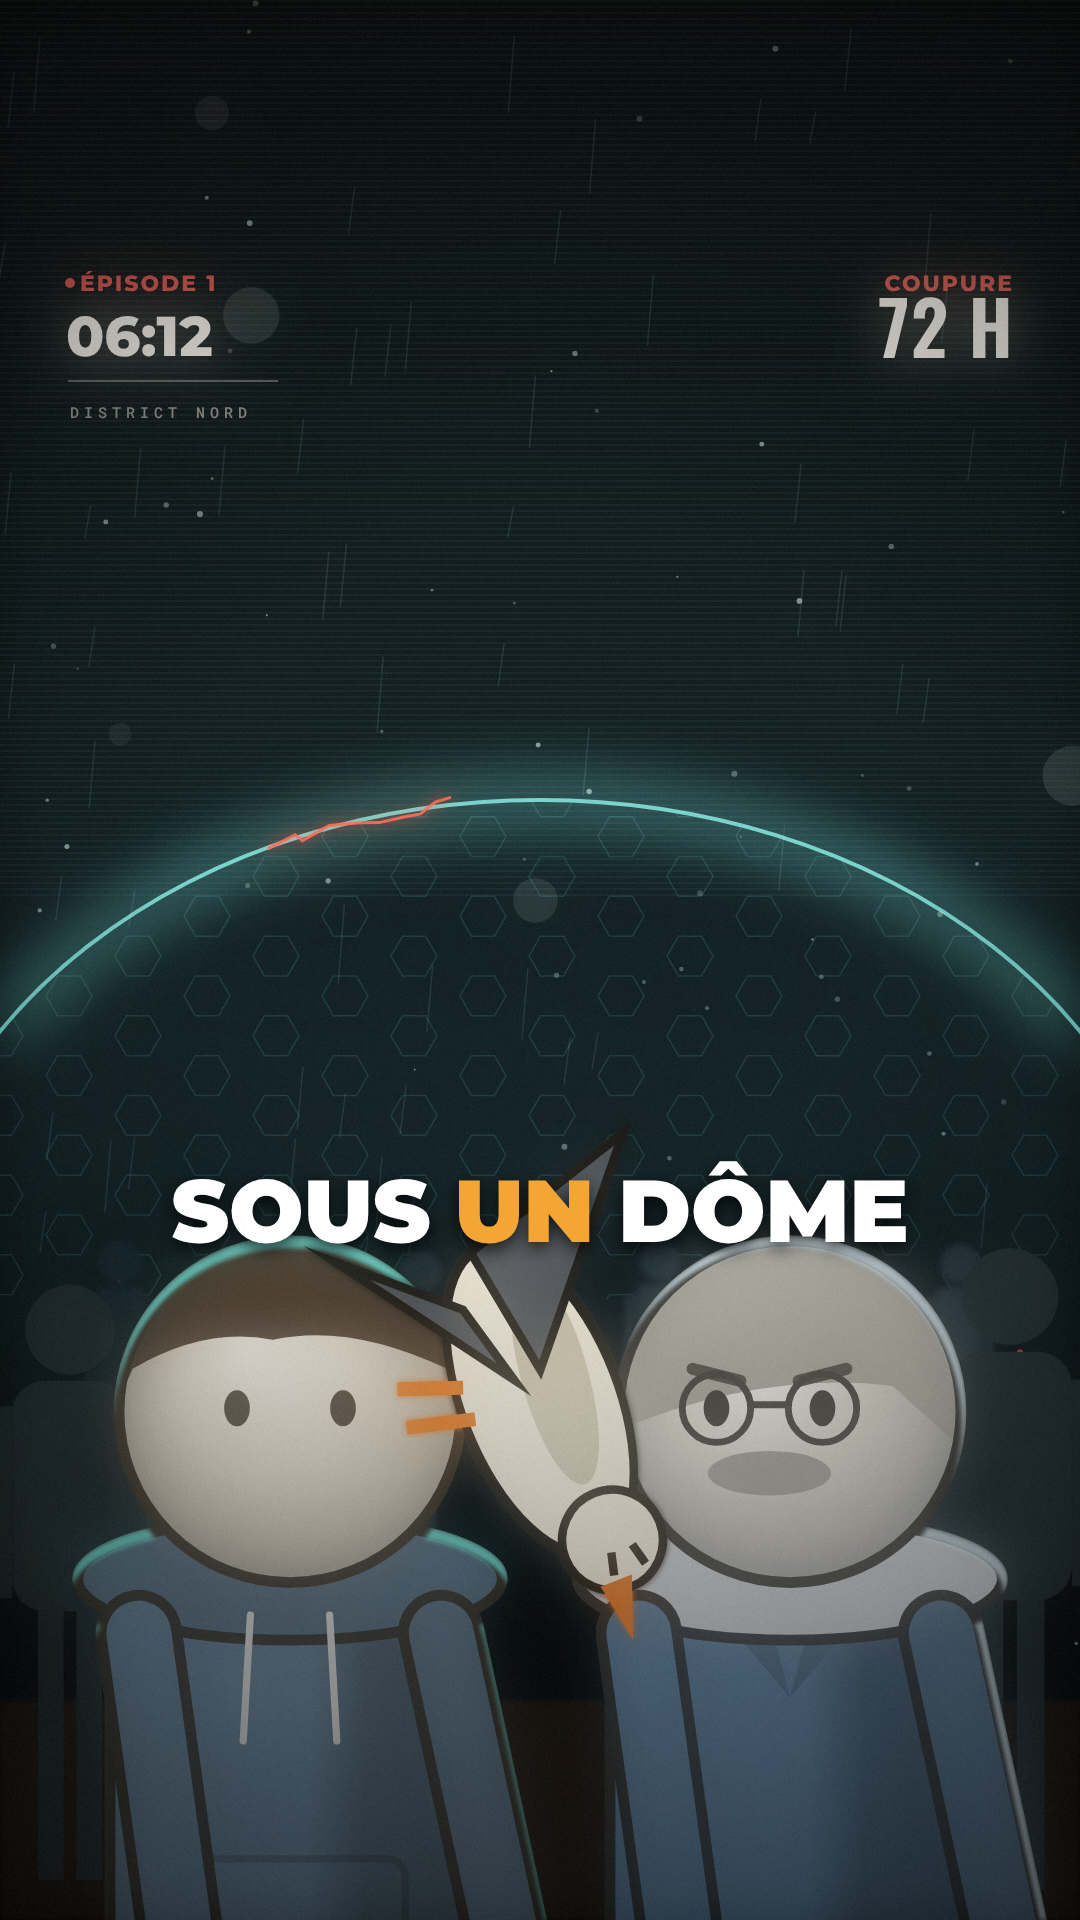
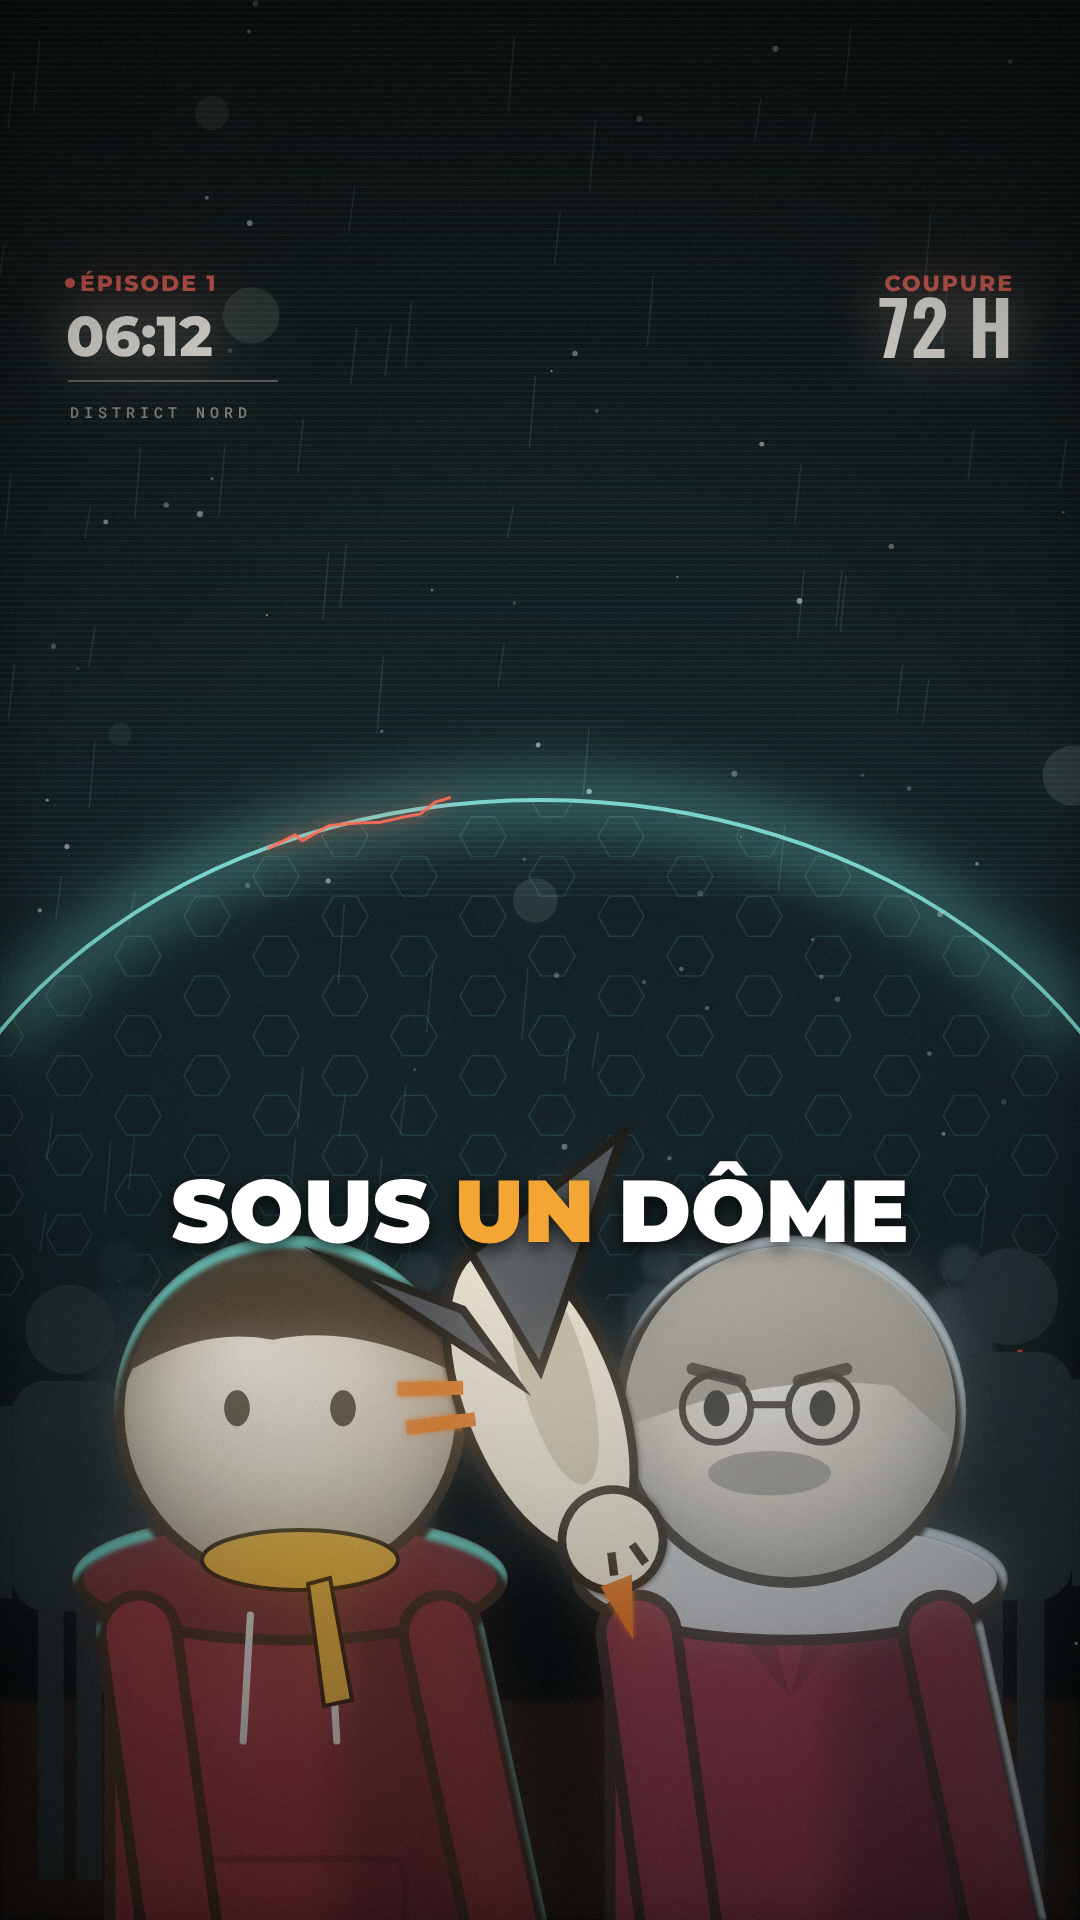
couronne-ep01 : plan 2 — père et fils en bordeaux, écharpe ocre pour repérer le fils
Claude-Session: https://claude.ai/code/session_0151hKPePi5KPXjL7mUCuxno

Changed region(s): [[0.0611, 0.7812, 0.4889, 1.0], [0.55, 0.8125, 0.9778, 1.0]]

diff --git a/productions/couronne-ep01/rendu_v3/scenes.js b/productions/couronne-ep01/rendu_v3/scenes.js
@@ -770,8 +770,11 @@ S.p02h_buste_vivant = g => {                              // image 2 v13
   holoDome(g, 101);
   layer(g, q => { q.fillStyle = "#1b1510"; q.fillRect(0, 1700, W, H - 1700); }, { blur: 2 });
   crowdStanding(g);
-  actor(g, 790, 2650, 1.8, { ...PERE, look: -0.12, arms: [[-1, 10], [1, 10]] }, { rim: "#cfe3ee", rimAng: -1.2, rimW: 7, key: "#dfe9ef", shadow: false });   // père, côté droit
-  actor(g, 290, 2650, 1.8, { ...HERO, look: 0.0, arms: [[-1, 10], [1, 10]] }, { rim: TEAL, rimAng: -1.57, rimW: 7, key: "#ffd9a0", shadow: false });
+  actor(g, 790, 2650, 1.8, { ...PERE, body: "#7a1f30", bodyDark: "#4a1220", look: -0.12, arms: [[-1, 10], [1, 10]] }, { rim: "#cfe3ee", rimAng: -1.2, rimW: 7, key: "#dfe9ef", shadow: false });   // père, côté droit
+  actor(g, 290, 2650, 1.8, { ...HERO, body: "#7a1f30", bodyDark: "#4a1220", ring: "#5a1826", look: 0.0, arms: [[-1, 10], [1, 10]] }, { rim: TEAL, rimAng: -1.57, rimW: 7, key: "#ffd9a0", shadow: false });
+  g.fillStyle = "#d9a33a"; g.strokeStyle = INK; g.lineWidth = 4;                 // écharpe ocre du fils : repère visuel
+  g.beginPath(); g.ellipse(300, 1560, 98, 30, 0, 0, 7); g.fill(); g.stroke();
+  g.beginPath(); g.moveTo(330, 1578); g.lineTo(352, 1700); g.lineTo(324, 1706); g.lineTo(308, 1584); g.closePath(); g.fill(); g.stroke();
   pigeon(g, 540, 1400, 2.8, 1.2, 3);
   pigeon(g, 540, 1400, 2.8, 1.2, 0);
   hud(g); finish(g, { bloom: 0.35, grade: ["#06202a", "#ffd9a0", 0.16] }); caption(g, ["SOUS", "UN", "DÔME"], 1);
@@ -782,9 +785,12 @@ S.p02i_sol_vivant = g => {                                // image 3 v13
   holoDome(g, 103);
   layer(g, q => { q.fillStyle = "#1b1510"; q.fillRect(0, 1700, W, H - 1700); }, { blur: 2 });
   crowdStanding(g);
-  actor(g, 790, 2650, 1.8, { ...PERE, look: -0.12, arms: [[-1, 10], [1, 10]] }, { rim: "#cfe3ee", rimAng: -1.2, rimW: 7, key: "#dfe9ef", shadow: false });   // père, côté droit
-  actor(g, 290, 2650, 1.8, { ...HERO, look: 0.0, arms: [[-1, 10], [1, 10]] }, { rim: TEAL, rimAng: -1.57, rimW: 7, key: "#ffd9a0", shadow: false });
+  actor(g, 790, 2650, 1.8, { ...PERE, body: "#7a1f30", bodyDark: "#4a1220", look: -0.12, arms: [[-1, 10], [1, 10]] }, { rim: "#cfe3ee", rimAng: -1.2, rimW: 7, key: "#dfe9ef", shadow: false });   // père, côté droit
+  actor(g, 290, 2650, 1.8, { ...HERO, body: "#7a1f30", bodyDark: "#4a1220", ring: "#5a1826", look: 0.0, arms: [[-1, 10], [1, 10]] }, { rim: TEAL, rimAng: -1.57, rimW: 7, key: "#ffd9a0", shadow: false });
   g.fillStyle = "rgba(0,0,0,0.4)"; g.beginPath(); g.ellipse(880, 1852, 90, 12, 0, 0, 7); g.fill();
+  g.fillStyle = "#d9a33a"; g.strokeStyle = INK; g.lineWidth = 4;                 // écharpe ocre du fils : repère visuel
+  g.beginPath(); g.ellipse(300, 1560, 98, 30, 0, 0, 7); g.fill(); g.stroke();
+  g.beginPath(); g.moveTo(330, 1578); g.lineTo(352, 1700); g.lineTo(324, 1706); g.lineTo(308, 1584); g.closePath(); g.fill(); g.stroke();
   pigeon(g, 560, 1860, 2.0, 1.45, 0);
   hud(g); finish(g, { bloom: 0.35, grade: ["#06202a", "#ffd9a0", 0.16] }); caption(g, ["MAGNÉTIQUE."], 0);
 };
